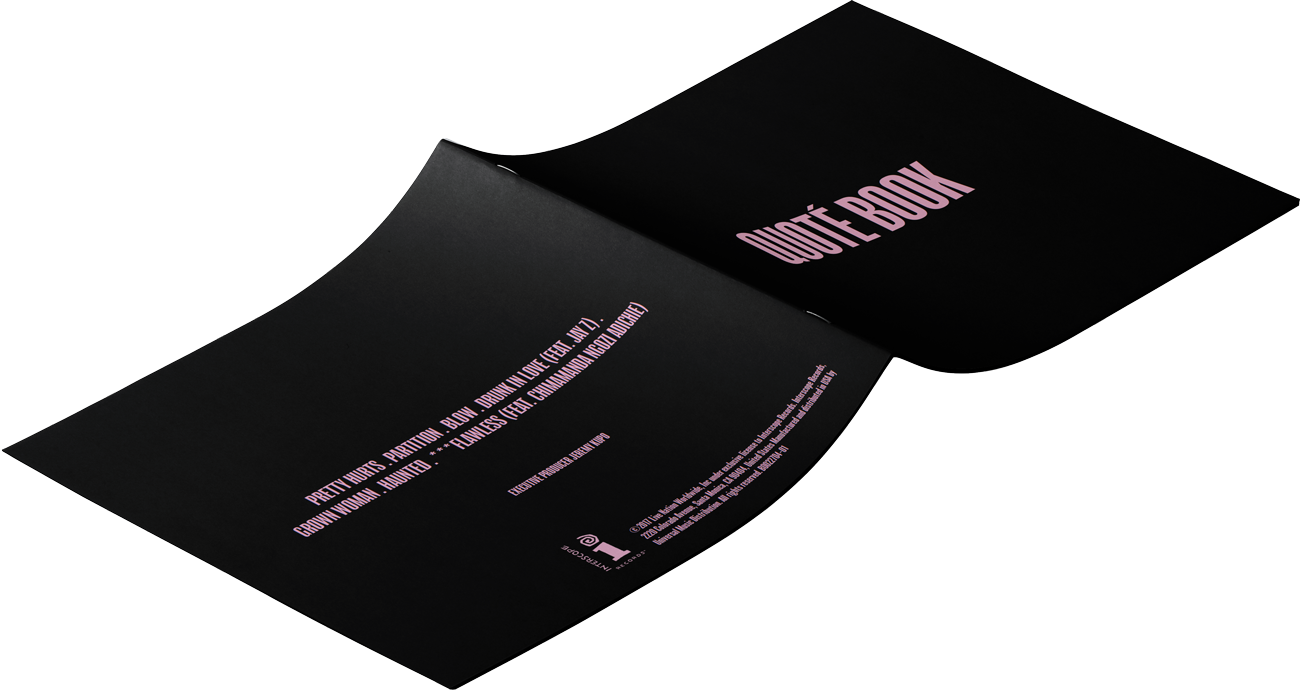
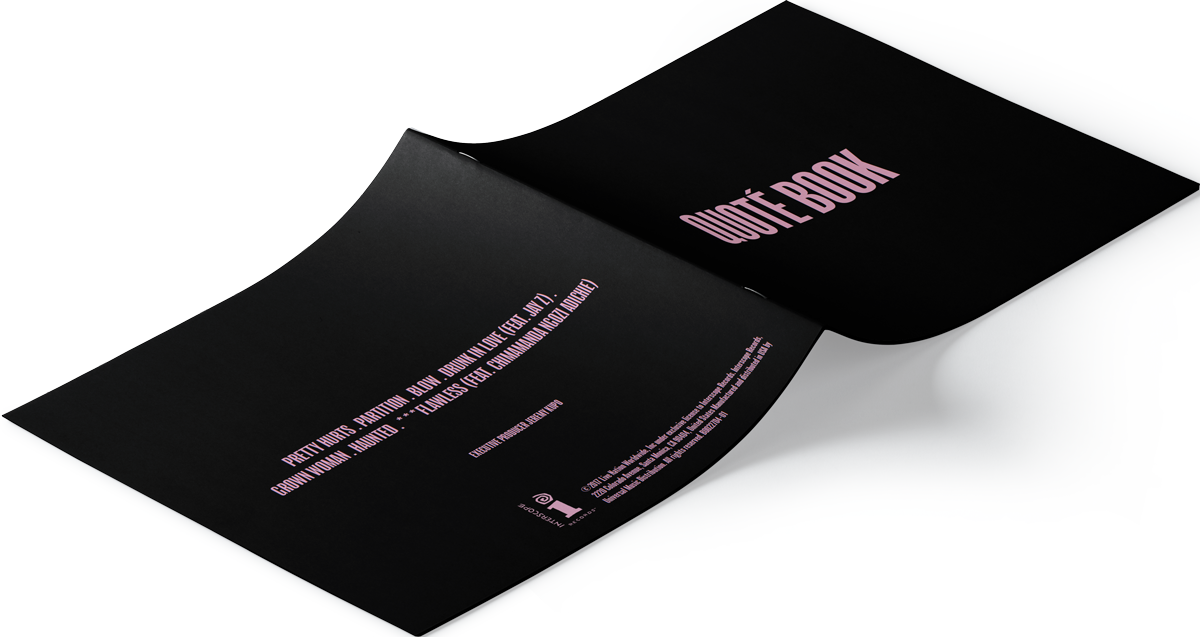
Added finalized mockups of quotebook

diff --git a/quotebook.html b/quotebook.html
@@ -31,5 +31,5 @@ layout: default
       <img class="mockup1" src="{{site.baseurl}}/images/quotebook/qb-mockup-1.png" alt="">
       <img class="mockup2" src="{{site.baseurl}}/images/quotebook/qb-mockup-2.png" alt="">
       <img class="mockup3" src="{{site.baseurl}}/images/quotebook/qb-mockup-3.png" alt="">
-      <img class="mockup4" src="{{site.baseurl}}/images/quotebook/placeholder.jpg" alt="">
+      <img class="mockup4" src="{{site.baseurl}}/images/quotebook/qb-mockup-4.png" alt="">
     </div>

diff --git a/css/projects.css b/css/projects.css
@@ -125,6 +125,7 @@ html {
     padding-bottom: 5em;
   }
 
+
 }
 
 @media only screen and (min-width: 60em) {
